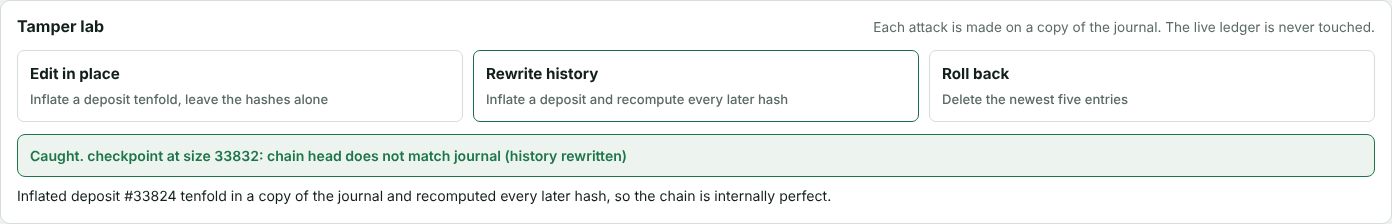
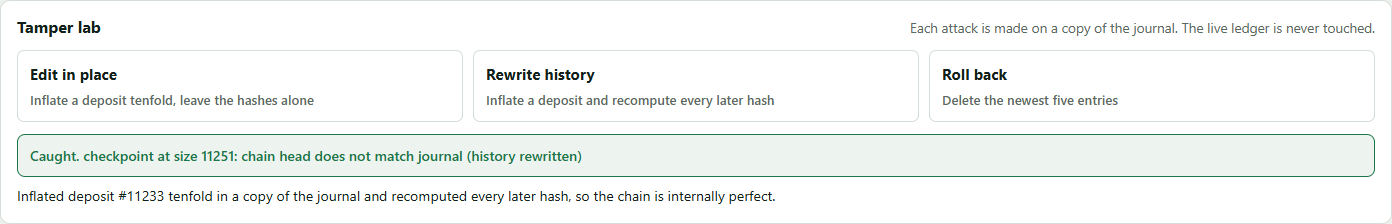
Refresh console screenshots and review handover
Capture and inspect all six views after the review fixes. Replace the stale handover with the per-comment commits and accurate validation results, including the Windows fixture-file access failures.

diff --git a/handover.md b/handover.md
@@ -1,79 +1,39 @@
-# Handover: finishing the review of PR #11 (web console)
+# Review fixes for PR #11
 
 Branch: `feature/web-app`. PR: https://github.com/PaulMaddox/ledger/pull/11
 
-Read `AGENTS.md` first. It holds the invariants, the documentation rules and the PR workflow. In particular:
+The four unresolved review comments found on 2026-10-31 have separate fixes:
 
-- Every money movement goes through `SportsbookWallet`.
-- No runtime dependencies beyond the JDK and Kotlin stdlib.
-- README, the guide and the screenshots must be updated in the same PR as behaviour changes.
+| Commit | Review comment | Fix |
+|---|---|---|
+| `9034290` | 4430747844 | Decode and render canonical entry bytes; preserve exact Long amounts as BigInt. |
+| `079a6d4` | 4430747882 | Bound tamper copies to a captured signed head, removing newer entries and checkpoints. |
+| `7d94c79` | 4430748020 | One ID per slip, no overlapping submissions, identical retries after uncertain responses. |
+| `764ca93` | 4430810188 | Await the original placement future while holding the fixture lock; no retry-admission gap. |
 
-## Where things stand
+README and the guide describe the changes. The built guide is regenerated.
+All six console screenshots were regenerated from a fresh running console and inspected.
+`scripts/check-web.mjs` adds dependency-free browser regression checks, also run in CI.
 
-Copilot's review raised 22 findings. **14 are fixed, committed and pushed.** Each fixed thread has a reply explaining the fix, and 13 of them are resolved.
+## Validation
 
-| Commit | Fixes (review comment ids) |
-|---|---|
-| `d7abe6c` | Exact payout/cash-out arithmetic; placement holds lock until definitive; retries replay after settlement; resumable settlement; persisted fixtures + no id reuse; simulator event ordering, cursor, per-customer cash-outs (4430747738, 4430747759, 4430747771, 4430747782, 4430747794, 4430747897, 4430747913, 4430747930, 4430747945, 4430747978) |
-| `cfef535` | Cross-site request protection (Host check, `X-Ledger-Console` header on POSTs, Origin check); paths decoded once (4430747804, 4430747961) |
-| `0f1a035` | Player audit pinned to each account's `lastSeq` (4430747991) |
-| `2eb4c24` | Checkpoint history tails `checkpoints.journal` via new `Journal.scanReadOnly(path, from)`; burst test fails on old code (4430747872) |
-| `f43009a` | (owner/Copilot) `verifyEntry` green only when `sig === true`. Partly addresses 4430747824; see item 1 below |
+- Four browser regression checks pass.
+- Guide checks print all four PASS lines (38 tests embedded, 53 debugger anchors).
+- The targeted queue-overload regression passes: it keeps a bet uncommitted for
+  31 seconds with a full queue while settlement waits, and checks overload propagation.
+- The concurrent simulator tamper regression passes in targeted and full-suite runs.
+- The demo completes with an independent audit, valid inclusion and consistency proofs,
+  and zero currency totals.
+- Both final full-suite runs execute 38 tests and finish with 37 passing and one failure.
+  Each failure occurs during app startup at the existing `Book.save()` atomic replacement
+  of `fixtures.txt.tmp` with `fixtures.txt`, with a Windows `AccessDeniedException`.
+  Different tests fail on the two runs; no tests were skipped or weakened, and the
+  unrelated fixture persistence code was left unchanged. Do not report the full suite
+  as passing; inspect CI before merging.
 
-## Remaining: 8 findings, all in the browser and the tamper lab
+## Owner actions outside this review
 
-Fix each one separately. For each: commit and push, reply on its review thread explaining the fix, then resolve the thread.
-
-**Verification honesty** in `src/main/resources/web/app.js` (most important):
-
-1. **4430747824**: *partly done in `f43009a`*: green now requires `sig === true`. What remains: when `sig === null` (no Ed25519 in this browser), show an amber "incomplete: signature could not be checked here" verdict instead of red "FAILED". Then reply on the thread and resolve it.
-2. **4430747844**: the panel shows `p.entry` fields from the server, not the bytes that were verified. Decode `entryBytes` in the browser and render *those* fields. The format is documented in `EntryCodec.kt`:
-   - magic `PAML` (int32), then version (u8), seq (i64), timestamp (i64)
-   - prevChainHash (32 bytes), then txId (two i64)
-   - key (str), kind (str), postingCount (i32), then for each posting: account (str), currency (str), amount (i64)
-   - metaCount (i32), then for each entry: key (str), value (str)
-   - every str is an int32 length followed by UTF-8 bytes; all values big-endian
-3. **4430747854**: before running the consistency check, verify that both signed heads' parsed `treeSize` values equal the requested `from` and `to`. Also check the tags are `PAM-LEDGER/tree-head/v1` and the two `ledgerId`s match. Use the parsed sizes in the check.
-4. **4430747862**: show the consistency verdict green only if the proof is valid **and** both signatures are `=== true`; `null` means incomplete.
-
-**Tamper lab** in `src/main/kotlin/com/pam/ledger/web/Audit.kt`:
-
-5. **4430747882**: `tamper()` must attack only signed history.
-   - Capture `val sth = checkpointNow()`, then snapshot.
-   - In the copy, keep only entries `< sth.head.treeSize`, and only checkpoint records with `treeSize <= sth.head.treeSize`. Rewrite both files with `Journal.openForAppend` and `appendBatch`.
-   - Choose the deposit victim and the truncation within that range.
-   - Add a test that runs the simulator during `tamper()` and asserts every mode is caught.
-
-**Browser races** in `src/main/resources/web/app.js`:
-
-6. **4430748001**: in `refreshPlayer`, capture `const requested = player` before awaiting, and discard the response if `player !== requested`.
-7. **4430748020**: allocate the bet slip's `betId` when the slip is created (in the price click handler), keep it until the outcome is definitive, and disable the submit button while a request is in flight.
-8. **4430748032**: in the slip submit handler, capture the selection before awaiting, and clear `selection` and hide the slip only if `selection` is still that captured object.
-
-## After the code fixes
-
-1. **Rebuild the guide.** Run `python3 scripts/build-readme.py`, then `node scripts/check-guide.mjs`, which must print four PASS lines. CI fails if `docs/index.html` is stale.
-2. **Regenerate the screenshots.** The UI changes, so follow AGENTS.md:
-   - run `./gradlew web --args="--port 18080"`
-   - then run `python3 scripts/capture-screenshots.py`
-   - look at every image before committing, and commit `docs/screenshots/`
-3. **Run the tests.** Run `./gradlew test`; 36 tests currently pass, and CI runs them twice. CI also runs the setup scripts and the demo on Ubuntu and Windows.
-4. **Update the PR description.** Add the review fixes, including the bugs Copilot found.
-
-## Owner actions, outside the code
-
-- The ruleset **"Protect Main with your life"** has "require status checks" on but **no checks listed**, so it blocks nothing. Add these four checks under Settings → Rules:
-  - `Kotlin tests`
-  - `Guide is up to date and consistent`
-  - `One-command setup (ubuntu-latest)`
-  - `One-command setup (windows-latest)`
-- The repository is **public**, though a private one was originally intended.
-
-## Useful API calls (REST only; GraphQL is unavailable to Claude sessions)
-
-```
-# reply on a review thread
-gh api repos/PaulMaddox/ledger/pulls/11/comments/<comment_id>/replies -X POST -F body=@reply.md
-# resolve it (Claude Code sessions: CCR route)
-gh api repos/PaulMaddox/ledger/pulls/11/ccr/comments/<comment_id>/resolve -X POST
-```
+The earlier handover noted that the main-branch ruleset had required checks enabled
+but no checks listed. That configuration has not been rechecked or changed here.
+The expected checks are `Kotlin tests`, `Guide is up to date and consistent`,
+`One-command setup (ubuntu-latest)`, and `One-command setup (windows-latest)`.
